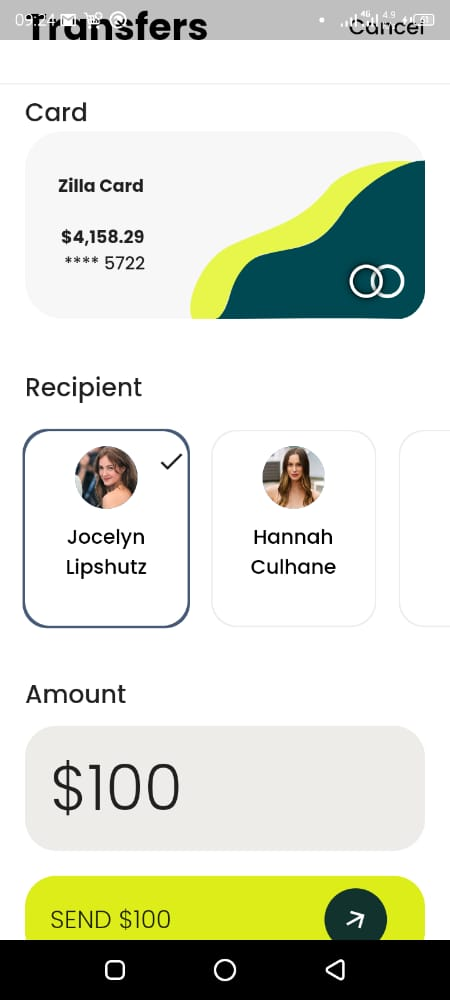
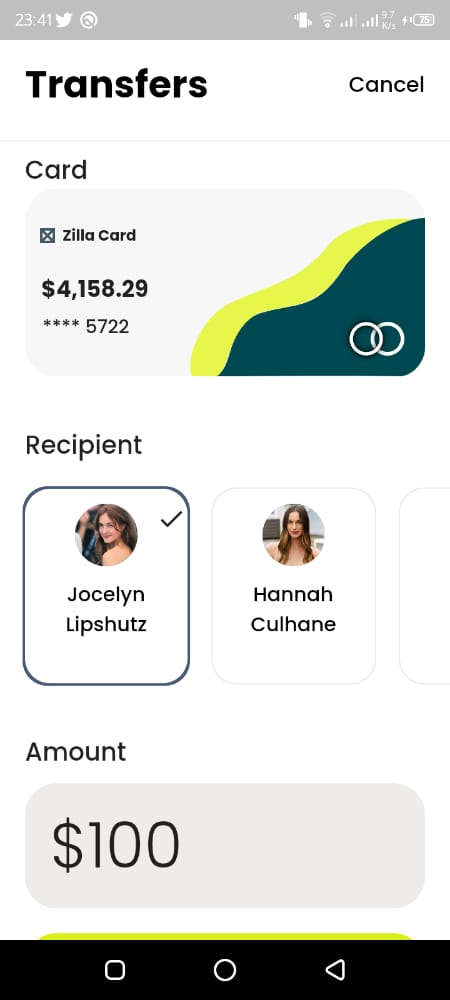
placeholder

diff --git a/lib/main.dart b/lib/main.dart
@@ -1,32 +1,19 @@
-import 'dart:async';
-import 'dart:ui';
-import 'dart:ui' as ui show Image;
-import 'package:flutter/cupertino.dart';
-import 'package:flutter/cupertino.dart';
 import 'package:flutter/cupertino.dart';
 import 'package:flutter/material.dart';
-import 'dart:io' as Io;
-import 'package:flutter/services.dart';
 
 void main() {
-
   runApp(
       MaterialApp(
         debugShowCheckedModeBanner: false,
           home: Transfermain(),
           theme: ThemeData(fontFamily: 'Poppins'),
       ));
-  
 }
-
-
 class Transfermain extends StatefulWidget {
   const Transfermain({Key? key}) : super(key: key);
-
   @override
   State<Transfermain> createState() => _TransfermainState();
 }
-
 class _TransfermainState extends State<Transfermain> {
   @override
   Widget build(BuildContext context) {
@@ -37,31 +24,25 @@ class _TransfermainState extends State<Transfermain> {
         child: Column(
         children: [
            Container(
-            child: Container(
-              margin: EdgeInsets.only(top: 45, bottom: 15),
-              padding: EdgeInsets.only(left: 20, right: 20),
-              child: Row(
-                mainAxisAlignment: MainAxisAlignment.spaceBetween,
-                children: [
-                  Container(
-                    child: Text("Transfers",
-                        style: TextStyle(
-                            fontSize: 30,
-                            fontFamily: 'Poppins',
-                            fontWeight: FontWeight.bold,
-                            color: Colors.black)),
-                  ),
-                  Container(
-                    child: Text("Cancel",
-                        style: TextStyle(
-                        fontSize: 17,
-                        fontFamily: 'Poppins',
-                        color: Colors.black)),
-                  ),
-                ],
-              ),
-            ),
-          ),
+             margin: EdgeInsets.only(top: 45, bottom: 15),
+             padding: EdgeInsets.only(left: 20, right: 20),
+             child: Row(
+               mainAxisAlignment: MainAxisAlignment.spaceBetween,
+               children: [
+                 Text("Transfers",
+                     style: TextStyle(
+                         fontSize: 30,
+                         fontFamily: 'Poppins',
+                         fontWeight: FontWeight.bold,
+                         color: Colors.black)),
+                 Text("Cancel",
+                     style: TextStyle(
+                     fontSize: 17,
+                     fontFamily: 'Poppins',
+                     color: Colors.black)),
+               ],
+             ),
+           ),
           Divider(),
           Container(
             margin: EdgeInsets.only(left: 20),
@@ -81,7 +62,6 @@ class _TransfermainState extends State<Transfermain> {
             child: Text("Amount", style: TextStyle(fontSize: 20, fontFamily: 'Poppins', fontWeight: FontWeight.w500)),
             alignment: Alignment.centerLeft,
           ),
-
           AmountPart(),
           SendPart(),
         ],
@@ -90,14 +70,11 @@ class _TransfermainState extends State<Transfermain> {
     );
   }
 }
-
 class CardPart extends StatefulWidget {
   const CardPart({Key? key}) : super(key: key);
-
   @override
   State<CardPart> createState() => _CardPartState();
 }
-
 class _CardPartState extends State<CardPart> {
   @override
   Widget build(BuildContext context) {
@@ -117,7 +94,7 @@ class _CardPartState extends State<CardPart> {
       width: 300,
       margin: EdgeInsets.only(bottom: 20, left: 20, right: 20),
       decoration: BoxDecoration(
-        borderRadius: BorderRadius.circular(30),
+        borderRadius: BorderRadius.circular(25),
         color: Color(0xFFf7f7f7),
       ),
       child:Row(
@@ -126,28 +103,43 @@ class _CardPartState extends State<CardPart> {
             child: Column(
               mainAxisAlignment: MainAxisAlignment.center,
               children: [
-                      Align(
-                        alignment: Alignment(1.5, 5),
-                        child: Text(
-                          "Zilla Card",
-                          textAlign: TextAlign.left,
-                          style: TextStyle(fontWeight: FontWeight.bold),
-                        ),
+                      Row(
+                        mainAxisAlignment: MainAxisAlignment.spaceEvenly,
+                        children: [
+                          SizedBox(width: 13,),
+                              Placeholder(
+                                fallbackHeight: 10,
+                                fallbackWidth:10,
+                              ),
+                          SizedBox(width: 7,),
+                          Align(
+                            alignment: Alignment(1.5, 5),
+                            child: Text(
+                              "Zilla Card",
+                              textAlign: TextAlign.left,
+                              style: TextStyle(fontWeight: FontWeight.bold,
+                              fontSize: 12),
+                            ),
+                          ),
+                        ],
                       ),
                 SizedBox(height: 20),
                 Align(
-                  alignment: Alignment(1.5, 5),
+                  alignment: Alignment(5.5, 5),
                   child: Text(
                     "\$4,158.29",
                     textAlign: TextAlign.left,
-                    style: TextStyle(fontWeight: FontWeight.bold),
+                    style: TextStyle(fontWeight: FontWeight.bold,
+                    fontSize: 18),
                   ),
                 ),
+                SizedBox(height: 5,),
                 Align(
-                  alignment: Alignment(1.5, 5),
+                  alignment: Alignment(0.4, 5),
                   child: Text(
                     "**** 5722",
                     textAlign: TextAlign.left,
+                    style: TextStyle(fontSize: 15),
                   ),
                 ),
               ],
@@ -173,7 +165,6 @@ class _CardPartState extends State<CardPart> {
                   clipBehavior: Clip.none,
                 ),
               ),
-
             ],
           ),
         ],
@@ -181,8 +172,6 @@ class _CardPartState extends State<CardPart> {
     );
   }
 }
-
-
 class RPSCustomPainter extends CustomPainter{
   @override
   void paint(Canvas canvas, Size size) {
@@ -202,15 +191,12 @@ class RPSCustomPainter extends CustomPainter{
     path0.quadraticBezierTo(size.width*0.8802000,size.height*0.1584706,size.width,size.height*0.1562353);
     path0.lineTo(size.width,size.height*0.2347647);
     path0.close();
-
     canvas.drawPath(path0, paint0);
-
 
     Paint paint1 = Paint()
       ..color = Color(0XFFe8f64b)
       ..style = PaintingStyle.fill
       ..strokeWidth = 1;
-
 
     Path path1 = Path();
     path1.moveTo(size.width*0.9584333,size.height*0.1626471);
@@ -222,10 +208,8 @@ class RPSCustomPainter extends CustomPainter{
     path1.cubicTo(size.width*0.6090333,size.height*0.6081765,size.width*0.6445000,size.height*0.5932941,size.width*0.7236667,size.height*0.4056471);
     path1.cubicTo(size.width*0.7604333,size.height*0.3480588,size.width*0.8155333,size.height*0.2334118,size.width*0.9584333,size.height*0.1626471);
     path1.close();
-
     canvas.drawPath(path1, paint1);
 
-    var path = Path();
     final paint = Paint();
     paint.color = Colors.white;
     paint.style = PaintingStyle.stroke;
@@ -233,41 +217,30 @@ class RPSCustomPainter extends CustomPainter{
     var position = Offset(200.0,120.0);
     canvas.drawCircle(position, 12.0, paint);
 
-
     final icon = Icons.circle_outlined;
     TextPainter textPainter = TextPainter(textDirection: TextDirection.rtl);
     textPainter.text = TextSpan(text: String.fromCharCode(icon.codePoint),
         style: TextStyle(fontSize: 32.0,fontFamily: icon.fontFamily,
           shadows: <Shadow>[
             Shadow(
-
               blurRadius: 4.0,
               color: Colors.black,
             ),
             Shadow(
-
               blurRadius: 10.0,
               color: Colors.black,
             ),
           ],));
     textPainter.layout();
     textPainter.paint(canvas, Offset(167.0,104.0));
-
-
-
-
   }
-
   @override
   bool shouldRepaint(covariant CustomPainter oldDelegate) {
     return true;
   }
-
 }
-
 class RecipientPart extends StatelessWidget {
   const RecipientPart({Key? key}) : super(key: key);
-
   @override
   Widget build(BuildContext context) {
     return Container(
@@ -301,11 +274,8 @@ class RecipientPart extends StatelessWidget {
     );
   }
 }
-
-
 class AmountPart extends StatelessWidget {
   const AmountPart({Key? key}) : super(key: key);
-
   @override
   Widget build(BuildContext context) {
     return Container(
@@ -321,14 +291,11 @@ class AmountPart extends StatelessWidget {
           Text("\$100", style: TextStyle(fontSize: 50, fontFamily: 'Poppins', fontWeight: FontWeight.w100)),
         ],
       ),
-
     );
   }
 }
-
 class SendPart extends StatelessWidget {
   const SendPart({Key? key}) : super(key: key);
-
   @override
   Widget build(BuildContext context) {
     return Container(
@@ -360,14 +327,11 @@ class SendPart extends StatelessWidget {
           Spacer(flex: 1,),
         ],
       ),
-
     );
   }
 }
-
 class CategoriesScroller extends StatelessWidget {
   const CategoriesScroller();
-
   @override
   Widget build(BuildContext context) {
     final double categoryHeight = MediaQuery.of(context).size.height * 0.30 - 50;
@@ -392,7 +356,6 @@ class CategoriesScroller extends StatelessWidget {
                       BoxShadow(color: Color(0xFF475a78), spreadRadius: 2),
                     ]
                 ),
-
                 child: Padding(
                   padding: const EdgeInsets.all(12.0),
                   child: Column(
@@ -418,7 +381,6 @@ class CategoriesScroller extends StatelessWidget {
                         ],
                       ),
                       ),
-
                       SizedBox(
                         height: 10,
                       ),

diff --git a/README.md b/README.md
@@ -5,3 +5,4 @@
     
 ## Screenshots
 ![Screenshot](/assets/images/screenshot.jpeg?raw=true "Screenshot")
+![Screenshot1](/assets/images/screenshot1.jpeg?raw=true "Screenshot1")
